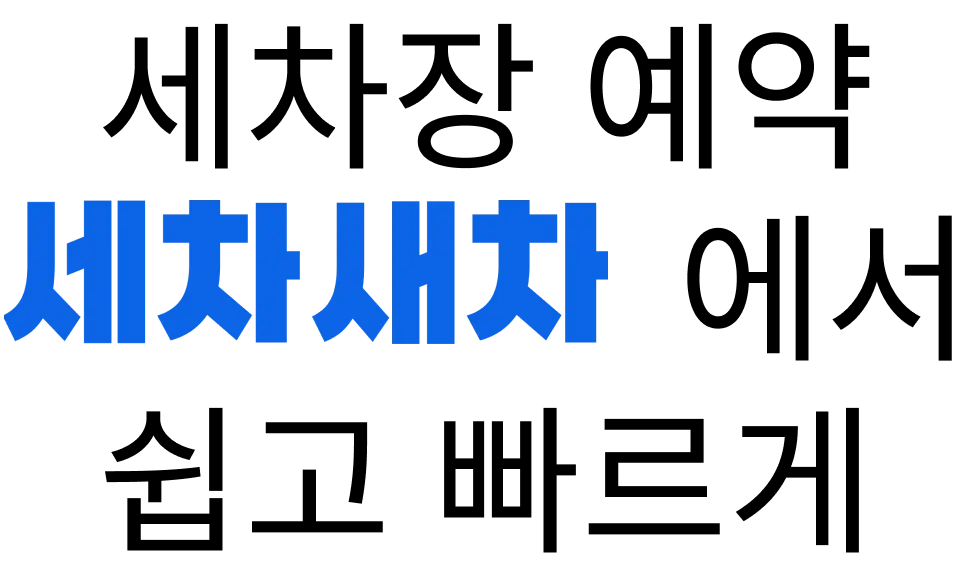
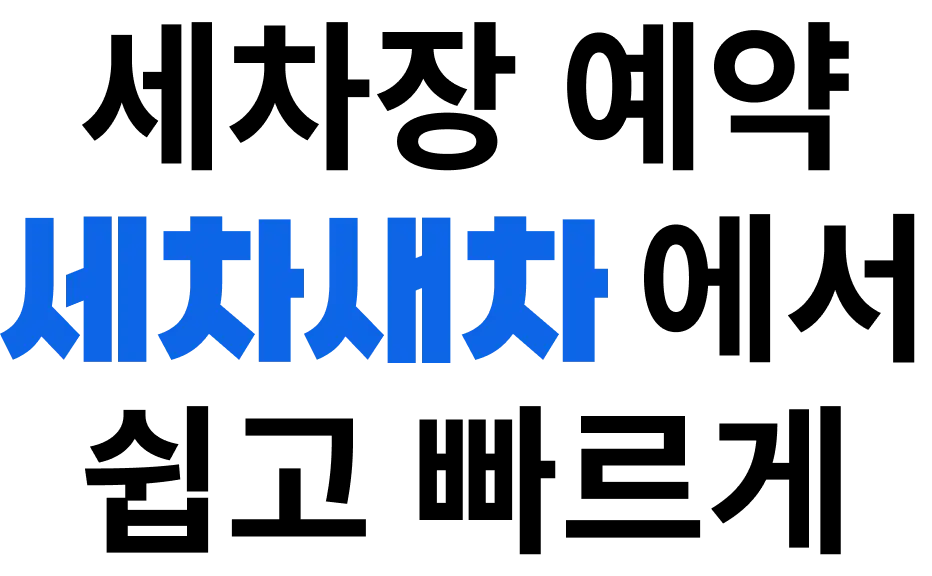
탭 클릭 시 이동 오류 해결, 로고, 이미지 변경

diff --git a/index.html b/index.html
@@ -43,7 +43,7 @@
     <div class="header">
       <div>
         <a href="" class="banlife">
-          <img class="header-img" src="/img/navbarPhrase.png" alt="세차새차" />
+          <img class="header-img" src="/img/navbarPhrase.webp" alt="세차새차" />
         </a>
       </div>
       <!-- <div class="link" id="gnb">
@@ -51,7 +51,6 @@
         </div> -->
     </div>
   </header>
-
   <div id="home">
     <!-- 첫페이지 -->
     <section class="main_visual">
@@ -61,19 +60,18 @@
           <!-- <a href="#receivingNews" id="btn-News" class="btn btn-primary"> -->
           <!-- 출시 소식 받아보기 -->
           <!-- </a> -->
-          <!-- <button id="btn-News" type="button" class="btn btn-primary">
-            <i class="fa-solid fa-comment"> 카카오로 가입하기</i>
-          </button> -->
-          <button id="tel_btn" type="submit" class="btn btn-primary">
-            <i class="fa-solid fa-comment"> 카카오로 가입하기</i>
+
+          <button id="btn-News" type="button">
+            <i class="fa-solid fa-comment"> </i>
+            <div class="tel_btnTxt">카카오로 가입하기</div>
           </button>
+
           <div class="cellphone">
             <img class="cellphone_img" src="/img/firstContent.webp" alt="세차새차 모바일 앱 첫 화면">
           </div>
         </div>
       </div>
     </section>
-
     <!-- 중간설명 -->
     <section class="comment" id="comment">
       <div class="comment_txt">
@@ -82,7 +80,6 @@
         <br />세차새차와 함께라면 당신의 세차가 즐거워질 거예요
       </div>
     </section>
-
     <!-- 주요 서비스 설명 -->
     <ul class="nav nav-tabs nav-fill" id="myTab" role="tablist">
       <li class="nav-item" role="presentation">
@@ -98,7 +95,6 @@
         </button>
       </li>
     </ul>
-
     <div class="tab-content" id="myTabContent">
       <!-- 손님 -->
       <div class="tab-pane fade show active" id="home-tab-pane" role="tabpanel" aria-labelledby="home-tab" tabindex="0">
@@ -106,30 +102,27 @@
           <div class="tab_content_phrase">
             세차장 검색은 <br />세차새차에서
           </div>
-          <!-- <img class="img1" src="/img/img1.png" alt="">
-          <img class="img2" src="/img/img2.png" alt=""> -->
-          <img class="tab_content_img" src="/img/guest_content1-Img.webp" alt="손님측에서 세차장 검색하는 화면">
+          <img class="tab_content_img" src="/img/guest_content1-Img.webp" alt="손님측 세차장 검색하는 화면">
         </div>
         <div class="tab_content_s">
           <div class="tab_content_phrase">
             시간과 차종을 알려주세요 <br /> 최고 세차 품질과 서비스로 <br /> 보답합니다
           </div>
-          <img class="tab_content_img" src="/img/guest_content2-Img.webp" alt="손님측에서 세차새차 예약하는 화면">
+          <img class="tab_content_img" src="/img/guest_content2-Img.webp" alt="손님측 세차새차 예약하는 화면">
         </div>
         <div class="tab_content_g">
           <div class="tab_content_phrase">
             세차 일정 관리 <br /> 세차새차에서 한 번에
           </div>
-          <img class="tab_content_img-one" src="/img/guest_content3-Img.webp" alt="손님측에서 예약한 일정들을  관리하는 화면">
+          <img class="tab_content_img-one" src="/img/guest_content3-Img.webp" alt="손님측 예약한 일정들을 관리하는 화면">
         </div>
         <div class="tab_conten_s">
           <div class="tab_content_phrase">
             실시간으로 업데이트 되는 <br /> 세차 현황을 받아보세요
           </div>
-          <img class="tab_content_img" src="/img/guest_content4-Img.webp" alt="손님측에서 세차 현황들을 볼 수 있는 화면">
+          <img class="tab_content_img" src="/img/guest_content4-Img.webp" alt="손님측 세차 현황들을 볼 수 있는 화면">
         </div>
       </div>
-
       <!-- 사장 -->
       <div class="tab-pane fade" id="profile-tab-pane" role="tabpanel" aria-labelledby="profile-tab" tabindex="0">
         <div class="tab_content_s">
@@ -144,21 +137,20 @@
           <div class="tab_content_phrase">
             세차새차에서<br /> 더 많은 손님과 만나세요
           </div>
-          <img class="tab_content_img-one" src="/img/owner_content2-img.webp" alt="세차새차와 함께하여 잡힌 예약들을 볼 수 있는 화면">
+          <img class="tab_content_img-one" src="/img/owner_content2-img.webp" alt="사장님측 예약현활들을 볼 수 있는 화면">
         </div>
         <div class="tab_content_s">
           <div class="tab_content_phrase">
             가입과 동시에 <br /> 우리 세차장만의<br /> 홈페이지가 무료로
           </div>
-          <img class="tab_content_img" src="/img/owner_content3-img.webp" alt="세차새차에 가입하여 세차장만의 홈페이지가 만들어진 화면">
+          <img class="tab_content_img" src="/img/owner_content3-img.webp" alt="사장님측 개인 세차장만의 홈페이지가 만들어지는 화면">
         </div>
         <div class="tab_content_g">
           <div class="tab_content_phrase">
             복잡한 스케줄 고민은 그만 <br /> 세차새차에서 간편하게
           </div>
-          <img class="tab_content_img" src="/img/owner_content4-img.webp" alt="세차새차로 세차장 스케줄 관리하는 화면">
+          <img class="tab_content_img" src="/img/owner_content4-img.webp" alt="사장님측 세차새차로 세차장 스케줄 관리하는 화면">
         </div>
-
         <!-- 좋은 주요서비스 어필 -->
         <div class="benefit">
           <div class="benefit_phrase">
@@ -196,7 +188,7 @@
             <div class="like_acc_tile">
               <div class="thumbnail_wrapper">
                 <div class="thumbnail">
-                  <img class="like_icon3" src="/img/Icon3.webp" alt="세차 완료 됨을 알리는 알림">
+                  <img class="like_icon3" src="/img/Icon3.webp" alt="세차 완료 알림">
                 </div>
                 <div class="like_title">
                   세차 완료
@@ -212,7 +204,6 @@
       </div>
     </div>
   </div>
-
   <!-- 전화번호 받는 부분 -->
   <section id="receivingNews" class="phone_number">
     <div class="tell">
@@ -223,21 +214,19 @@
         </div>
         <div class="tell_box">
           <button id="tel_btn" type="submit">
-            <i class="fa-solid fa-comment">카카오로 가입하기</i>
+            <i class="fa-solid fa-comment"></i>
+            <div class="tel_btnTxt">카카오로 가입하기</div>
           </button>
           <!-- <form id="myFormGuest">
             <input class="tel_input" type="tel" id="myInput" name="myInput" placeholder="전화번호를 입력해주세요">
             <button id="tel_btn2" type="submit">제출하기</button>
           </form> -->
-          <img class="last_Img" src="/img/lastImg.webp" alt="세차새차 모바일 앱 첫 화면">
+          <img class="last_Img" src="/img/lastImg.webp" alt="세차새차 모바일 웹 첫 화면">
         </div>
       </div>
     </div>
   </section>
-
   </div>
-
-
   <footer>
     <div class="footer">
       <div class="copy_area">
@@ -245,13 +234,12 @@
           <img class="logo" src="/img/Logo.png" alt="세차새차 로고">
         </span>
         <span>
-          <img class="logo2" src="img/footerPhrase.png" alt="세차새차 글씨">
+          <img class="logo2" src="img/footerPhrase.webp" alt="세차새차 글씨로고">
         </span>
       </div>
       <div id="footer_url">
         <a class="footer_url" href="www.washcar.me">www.washcar.me</a>
       </div>
-
       <div class="footer_content">
         <div>대표 <span class="content_small">심덕수</span></div>
         <div>주소 <span class="content_small">인천 연수구 갯벌로 12 4층</span></div>
@@ -260,13 +248,11 @@
       </div>
     </div>
   </footer>
-
   <div>
     <!-- 다운하는 버튼 -->
     <button id="arrow-up">
       <div class="download_btn">소식 받아보기</div>
     </button>
-
     <!-- 팝업창 -->
     <div id="pop-up">
       <div class="close">
@@ -276,18 +262,24 @@
         <img class="img-pop-up_logo" src="/img/Logo.png" alt="세차새차 로고">
       </div>
       <div>
-        <img class="img-pop-up_logo2" src="/img/footerPhrase.png" alt="세차새차 글씨">
+        <img class="img-pop-up_logo2" src="/img/footerPhrase.webp" alt="세차새차 글씨로고">
       </div>
       <div class="pop-up_txt">
         세차장 예약 어플
         <div>
           <div class="Pop-up_btn-group">
-            <button type="Pop-up_btn" id="btn-pop-up" class="btn btn-dark">지금 사전예약하러 가기</button>
+            <button id="Pop-up_btn" type="submit">
+              <i class="fa-solid fa-comment"></i>
+              <div class="tel_btnTxt">카카오로 가입하기</div>
+            </button>
+
             <!-- <a href="#receivingNews" type="Pop-up_btn" id="btn-pop-up" class="btn btn-dark"> -->
             <!-- 지금 사전예약하러 가기 -->
             <!-- </a> -->
-          </div>
 
+            <!-- <button type="Pop-up_btn" id="btn-pop-up" class="btn btn-dark">지금 사전예약하러 가기</button> -->
+
+          </div>
         </div>
       </div>
     </div>

diff --git a/index.css b/index.css
@@ -75,8 +75,6 @@ header {
   background: #fddc3f;
   border-radius: 10px;
 
-  margin-top: 0;
-  margin-left: 10px;
   font-family: 'Noto Sans';
   font-style: normal;
   font-weight: 900;
@@ -86,43 +84,11 @@ header {
   letter-spacing: 0.1em;
 
   color: #3a2929;
-
-  margin: auto;
-  /* display: block;
-  margin: auto;
-  width: 240px;
-  height: 37px;
-
-  background: #fddc3f;
-  border-radius: 5px;
-
-  font-family: 'Noto Sans';
-  font-style: normal;
-  font-weight: 700;
-  font-size: 15px;
-  line-height: 20px;
-  text-align: center;
-  letter-spacing: 0.15em;
-
-  color: #3a2929;
-  margin-top: 11px; */
+}
+#btn-News > i {
+  margin-top: 3px;
 }
 
-.btn-primary {
-  border: none;
-  font-size: 15px;
-  text-decoration: none;
-  padding: 4px 15px;
-  color: white;
-  background-color: #3d84ed;
-  /* box-shadow: 1px 1px 1px 1px gray; */
-  border-radius: 15px;
-  width: 170px;
-  height: 30px;
-  display: block;
-  margin: auto;
-  line-height: 15px;
-}
 .cellphone {
   padding-top: 35px;
 }
@@ -449,7 +415,6 @@ header {
 }
 
 .tel_btnTxt {
-  margin-top: 0;
   margin-left: 10px;
   font-family: 'Noto Sans';
   font-style: normal;
@@ -602,6 +567,36 @@ footer {
   font-size: 13px;
   margin-top: 25px;
   line-height: 25px;
+}
+#Pop-up_btn {
+  border: none;
+  display: flex;
+  margin: 0 auto;
+  width: 250px;
+  height: 39px;
+
+  padding: 9px 0px 0px 40px;
+
+  background: #fddc3f;
+  border-radius: 10px;
+
+  margin-top: 0px;
+  margin-left: 10px;
+  font-family: 'Noto Sans';
+  font-style: normal;
+  font-weight: 900;
+  font-size: 15px;
+
+  text-align: center;
+  letter-spacing: 0.1em;
+
+  color: #3a2929;
+
+  margin: auto;
+  margin-top: 10px;
+}
+#Pop-up_btn > i {
+  margin-top: 3px;
 }
 
 /* 소식 받아보기 */
